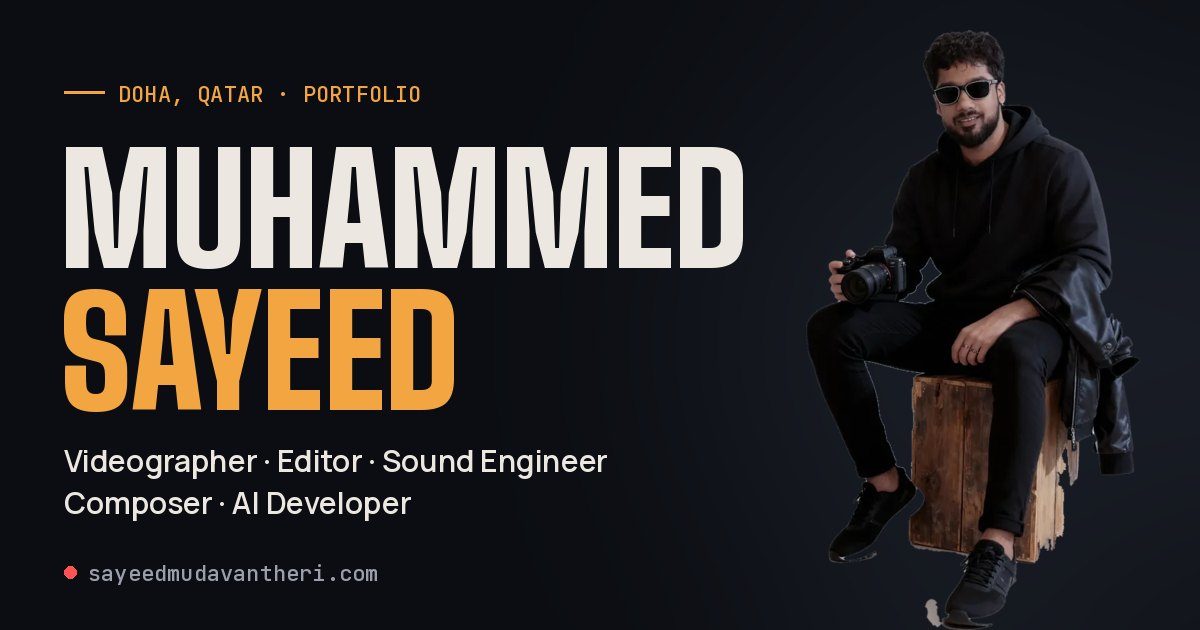
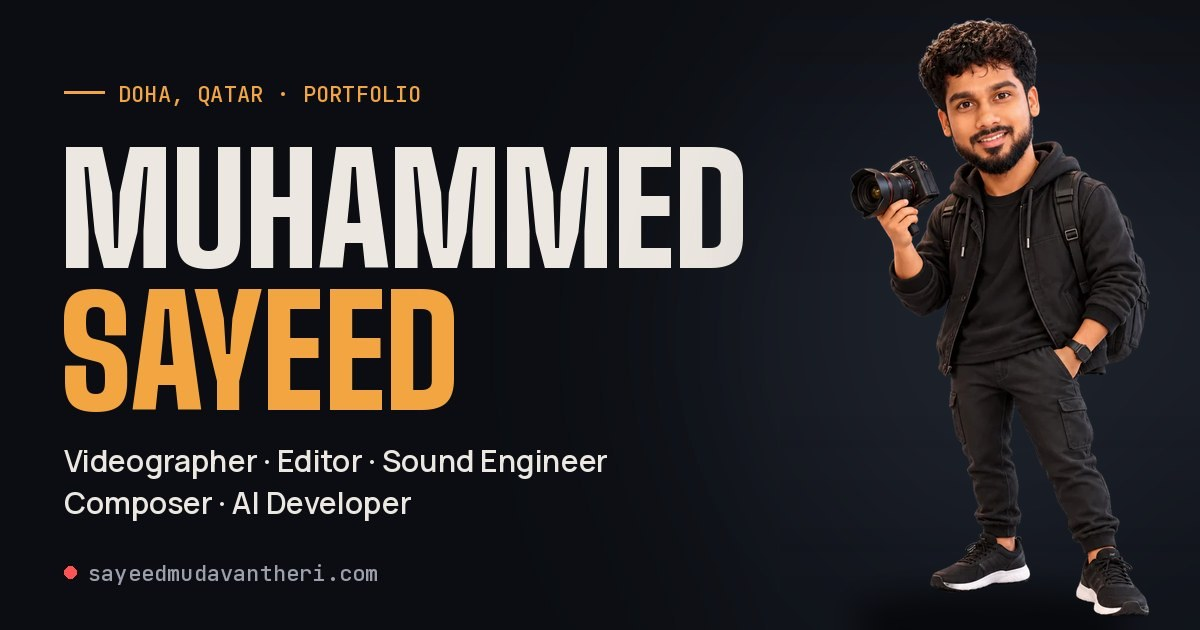
Mascot replaces photos; realistic walking

Changed region(s): [[0.6475, 0.0302, 0.9558, 1.0]]

diff --git a/index.html b/index.html
@@ -463,10 +463,10 @@ footer .in{max-width:1280px;margin:0 auto;padding:22px clamp(16px,4vw,48px);disp
         <a class="btn" href="#contact">Start a project <svg viewBox="0 0 16 16" aria-hidden="true"><path d="M3 8h10M9 4l4 4-4 4"/></svg></a>
         <button class="btn ghost" type="button" data-showcase>View my work</button>
       </div>
-      <p class="hint" id="hint">Move your cursor and mini me runs to it &middot; Click me for a flip &middot; Scroll to change scene</p>
+      <p class="hint" id="hint">Move your cursor and mini me walks to it &middot; Click me for a photo &middot; Scroll to change scene</p>
       <img class="fallback" src="mascot-still.webp" alt="Mini Sayeed, a 3D character of Muhammed Sayeed holding a camera">
     </div></div>
-    <div class="hm" id="heroMascot"><button class="m-hit" id="hmHit" type="button" aria-label="Mini Sayeed: tap for a flip"></button><div class="m-say" id="hmSay" aria-live="polite"></div></div>
+    <div class="hm" id="heroMascot"><button class="m-hit" id="hmHit" type="button" aria-label="Mini Sayeed: tap for a photo"></button><div class="m-say" id="hmSay" aria-live="polite"></div></div>
   </section>
 
   <section class="scene" id="about" data-scene="1">
@@ -580,7 +580,7 @@ footer .in{max-width:1280px;margin:0 auto;padding:22px clamp(16px,4vw,48px);disp
       <div class="tag">Scene 05 &middot; The musician</div>
       <h2>I hear the edit</h2>
       <div class="photos">
-        <img class="p1" src="piano-portrait.jpg" alt="Sayeed smiling while seated at a grand piano">
+        <img class="p1" src="about-mascot.jpg" alt="Mini Sayeed, the 3D character of Muhammed Sayeed">
         <img class="p2" src="piano-keys.jpg" alt="Sayeed's hands playing a grand piano">
       </div>
       <div class="facts" style="margin-top:0">
@@ -686,7 +686,7 @@ const seen=new Set(); const so=new IntersectionObserver(es=>es.forEach(en=>{ if(
 document.querySelectorAll('[data-scene]').forEach(s=>so.observe(s));
 const gameSeen=new Set(); window.__trackGame=k=>{ if(!gameSeen.has(k)){gameSeen.add(k);track('game/'+k,'Game played: '+k)} };
 const fine=matchMedia('(pointer:fine)').matches;
-if(!fine) document.getElementById('hint').innerHTML='Tap anywhere below and mini me runs there &middot; Tap me for a flip';
+if(!fine) document.getElementById('hint').innerHTML='Tap anywhere below and mini me walks there &middot; Tap me for a photo';
 
 /* timecode */
 const tc=document.getElementById('tc'),t0=performance.now(),pad=n=>String(n).padStart(2,'0');
@@ -1307,22 +1307,23 @@ Promise.all([loadPts,fontReady,null,null]).then(([txt,_f,pTex,dTex])=>{
 <script>
 /* Mini Sayeed: 3D character built from Sayeed's own character sheet (faces untouched).
    Atlas cells: 0 front, 1 three-quarter left, 2 side left, 3 back, 4 three-quarter right, 5 camera pose.
+   Walking uses a cut-out rig of the side view (body + two jointed legs + swinging arm), so he walks like a person.
    One engine, two stages: the big one in the hero and the little buddy in the corner. */
 (()=>{
   if(!window.THREE) return;
   const RM=matchMedia('(prefers-reduced-motion: reduce)').matches;
-  const FINE=matchMedia('(pointer:fine)').matches;
   const FW=360/560;
   const tl=new THREE.TextureLoader(), lt=u=>new Promise(r=>tl.load(u,t=>{t.minFilter=THREE.LinearFilter;t.generateMipmaps=false;r(t)},undefined,()=>r(null)));
-  const TEX=Promise.all([lt('mascot.webp'),lt('mascotdepth.png')]);
+  const TEX=Promise.all([lt('mascot.webp'),lt('mascotdepth.png'),lt('rig.webp'),lt('rigarm.png')]);
   const KEYS=[[0,0,0],[45,1,0],[90,2,0],[150,3,0],[210,3,0],[270,2,1],[315,4,0],[360,0,0]];
   const ease=x=>x<.5?4*x*x*x:1-Math.pow(-2*x+2,3)/2, clamp=(v,a,b)=>Math.max(a,Math.min(b,v));
+  /* cell px (360x560 side view) -> plane units (figure height = 1) */
+  const PX=cx=>(cx/360-.5)*FW, PY=cy=>.5-cy/560;
+  const HIP=[180,342], KNEE=[188,452], SHOULDER=[165,175];
   let px=-1, py=-1, pmove=0;
   addEventListener('pointermove',e=>{ if(e.pointerType!=='mouse') return; px=e.clientX; py=e.clientY; pmove=performance.now()/1000; },{passive:true});
   const glow=(()=>{const c=document.createElement('canvas');c.width=c.height=128;const x=c.getContext('2d');const g=x.createRadialGradient(64,64,0,64,64,64);
     g.addColorStop(0,'rgba(255,255,255,1)');g.addColorStop(.18,'rgba(255,250,235,.9)');g.addColorStop(.45,'rgba(255,220,170,.25)');g.addColorStop(1,'rgba(255,220,170,0)');x.fillStyle=g;x.fillRect(0,0,128,128);return c;})();
-  const puff=(()=>{const c=document.createElement('canvas');c.width=c.height=64;const x=c.getContext('2d');const g=x.createRadialGradient(32,32,0,32,32,32);
-    g.addColorStop(0,'rgba(200,190,175,.55)');g.addColorStop(1,'rgba(200,190,175,0)');x.fillStyle=g;x.fillRect(0,0,64,64);return c;})();
 
   function Mascot(o){
     const host=o.host, hit=o.hit, say=o.say;
@@ -1334,14 +1335,15 @@ Promise.all([loadPts,fontReady,null,null]).then(([txt,_f,pTex,dTex])=>{
     const root=new THREE.Group(); scene.add(root);
     const shadow=new THREE.Mesh(new THREE.CircleGeometry(1,40),new THREE.MeshBasicMaterial({color:0,transparent:true,opacity:.4,depthWrite:false})); scene.add(shadow);
     const cell=k=>new THREE.Vector3(k%3,Math.floor(k/3),0);
-    const U={uMap:{value:null},uDep:{value:null},uAmt:{value:.12},uA:{value:0},uFlash:{value:0},uSq:{value:new THREE.Vector2(1,1)},uSway:{value:0},
+    /* ---- turntable sprite (standing, turning, posing) ---- */
+    const U={uMap:{value:null},uDep:{value:null},uAmt:{value:.12},uA:{value:0},uFlash:{value:0},uSway:{value:0},
       uCA:{value:cell(0)},uCB:{value:cell(1)},uMix:{value:0},uCP:{value:cell(5)},uPose:{value:0},uL:{value:new THREE.Vector3(.3,.4,1)}};
     const common=`uniform sampler2D uMap,uDep;uniform vec3 uCA,uCB,uCP;uniform float uMix,uPose;
       vec2 at(vec3 c,vec2 uv){ if(c.z>.5) uv.x=1.-uv.x; return vec2((c.x+uv.x)/3.,(uv.y+1.-c.y)/2.); }
       float dep(vec2 uv){ return mix(mix(texture2D(uDep,at(uCA,uv)).r,texture2D(uDep,at(uCB,uv)).r,uMix),texture2D(uDep,at(uCP,uv)).r,uPose); }`;
-    const mat=new THREE.ShaderMaterial({uniforms:U,transparent:true,depthWrite:false,
-      vertexShader:common+`uniform float uAmt,uSway;uniform vec2 uSq;varying vec2 vUv;
-        void main(){vUv=uv;vec3 p=position;p.z+=dep(uv)*uAmt;p.x+=uSway*uv.y*uv.y*.07;p.x*=uSq.x;p.y=(p.y+.5)*uSq.y-.5;
+    const mat=new THREE.ShaderMaterial({uniforms:U,transparent:true,depthWrite:false,depthTest:false,
+      vertexShader:common+`uniform float uAmt,uSway;varying vec2 vUv;
+        void main(){vUv=uv;vec3 p=position;p.z+=dep(uv)*uAmt;p.x+=uSway*uv.y*uv.y*.05;
           gl_Position=projectionMatrix*modelViewMatrix*vec4(p,1.);}`,
       fragmentShader:common+`uniform vec3 uL;uniform float uA,uFlash;varying vec2 vUv;
         void main(){vec4 c=mix(mix(texture2D(uMap,at(uCA,vUv)),texture2D(uMap,at(uCB,vUv)),uMix),texture2D(uMap,at(uCP,vUv)),uPose);
@@ -1351,47 +1353,63 @@ Promise.all([loadPts,fontReady,null,null]).then(([txt,_f,pTex,dTex])=>{
           vec3 col=c.rgb*(.86+.2*l);float r=pow(1.-max(n.z,0.),2.);col+=vec3(.95,.62,.25)*r*.4*c.a;
           col+=vec3(1.)*uFlash*uPose*.2*smoothstep(.55,0.,distance(vUv*vec2(1.,1.55),vec2(.0695,.697*1.55)));
           gl_FragColor=vec4(col,c.a*uA);}`});
-    root.add(new THREE.Mesh(new THREE.PlaneGeometry(FW,1,48,76),mat));
-    const flare=new THREE.Sprite(new THREE.SpriteMaterial({map:new THREE.CanvasTexture(glow),transparent:true,depthWrite:false,blending:THREE.AdditiveBlending,opacity:0}));
-    flare.scale.set(.4,.4,1); flare.position.set((.0695-.5)*FW,.197,.2); root.add(flare);
-    const ptex=new THREE.CanvasTexture(puff), puffs=[];
-    for(let k=0;k<14;k++){ const sp=new THREE.Sprite(new THREE.SpriteMaterial({map:ptex,transparent:true,depthWrite:false,opacity:0})); sp.userData.life=0; scene.add(sp); puffs.push(sp); }
-    function dust(x,y,dir,big){ const sp=puffs.find(p=>p.userData.life<=0)||puffs[0]; sp.userData={life:1,x,y,vx:-dir*(30+Math.random()*40)*(big?1.6:1),vy:10+Math.random()*25,s:FH*(big?.1:.06)}; }
+    const sprite=new THREE.Mesh(new THREE.PlaneGeometry(FW,1,48,76),mat); root.add(sprite);
+    const flare=new THREE.Sprite(new THREE.SpriteMaterial({map:new THREE.CanvasTexture(glow),transparent:true,depthWrite:false,depthTest:false,blending:THREE.AdditiveBlending,opacity:0}));
+    flare.scale.set(.4,.4,1); flare.position.set((.0695-.5)*FW,.197,.2); flare.renderOrder=9; root.add(flare);
+
+    /* ---- walking rig (side view, faces left; mirrored to walk right) ---- */
+    const RU={uRig:{value:null},uArmW:{value:null},uArm:{value:0},uA:U.uA};
+    const rigFrag=`uniform sampler2D uRig;uniform float uA,uTint;varying vec2 vA;void main(){vec4 c=texture2D(uRig,vA);if(c.a<.02)discard;gl_FragColor=vec4(c.rgb*.97*uTint,c.a*uA);}`;
+    const rig=new THREE.Group(); root.add(rig); rig.visible=false;
+    function part(rect,k,pivot,tint,order,arm){ const [x0,y0,x1,y1]=rect, sx=arm?30:2, sy=arm?46:2;
+      const g=new THREE.PlaneGeometry(PX(x1)-PX(x0),PY(y0)-PY(y1),sx,sy), uv=g.attributes.uv, A=new Float32Array(uv.count*2);
+      for(let i=0;i<uv.count;i++){ const u=uv.getX(i), v=uv.getY(i), cx=x0+u*(x1-x0), cy=y1-v*(y1-y0); A[i*2]=(k+cx/360)/2; A[i*2+1]=1-cy/560; }
+      g.setAttribute('aUv',new THREE.BufferAttribute(A,2));
+      const m=new THREE.ShaderMaterial({uniforms:{...RU,uTint:{value:tint}},transparent:true,depthWrite:false,depthTest:false,
+        vertexShader:arm?`uniform sampler2D uArmW;uniform float uArm;attribute vec2 aUv;varying vec2 vA;
+            void main(){vA=aUv;vec3 p=position;float w=texture2D(uArmW,vec2(aUv.x*2.,aUv.y)).r;vec2 s=vec2(${PX(SHOULDER[0]).toFixed(4)},${PY(SHOULDER[1]).toFixed(4)});
+              vec2 q=p.xy-s;float a=uArm*w,c=cos(a),n=sin(a);p.xy=s+vec2(c*q.x-n*q.y,n*q.x+c*q.y);gl_Position=projectionMatrix*modelViewMatrix*vec4(p,1.);}`
+          :`attribute vec2 aUv;varying vec2 vA;void main(){vA=aUv;gl_Position=projectionMatrix*modelViewMatrix*vec4(position,1.);}`,
+        fragmentShader:rigFrag});
+      const mesh=new THREE.Mesh(g,m); mesh.renderOrder=order;
+      const grp=new THREE.Group(); grp.position.set(PX(pivot[0]),PY(pivot[1]),0);
+      mesh.position.set((PX(x0)+PX(x1))/2-PX(pivot[0]),(PY(y0)+PY(y1))/2-PY(pivot[1]),0); grp.add(mesh); return grp; }
+    function leg(tint,order,dx){ const thigh=part([118,320,242,462],1,HIP,tint,order), shin=part([88,446,242,560],1,KNEE,tint,order+1);
+      shin.position.set(PX(KNEE[0])-PX(HIP[0]),PY(KNEE[1])-PY(HIP[1]),0); thigh.add(shin); thigh.position.x+=dx; rig.add(thigh); return {thigh,shin}; }
+    const farLeg=leg(.58,1,.012), nearLeg=leg(1,3,0);
+    const body=part([0,0,360,560],0,[180,280],1,5,true); body.position.set(PX(180),PY(280),0); rig.add(body);
 
     function setView(a){ a=((a%360)+360)%360; let i=0; while(i<KEYS.length-2&&a>=KEYS[i+1][0]) i++;
       const A=KEYS[i],B=KEYS[i+1], f=(a-A[0])/(B[0]-A[0]);
       U.uCA.value.set(A[1]%3,Math.floor(A[1]/3),A[2]); U.uCB.value.set(B[1]%3,Math.floor(B[1]/3),B[2]);
-      U.uMix.value=clamp((f-.35)/.3,0,1); const near=f<.5?A[0]:B[0]; return ((a-near+540)%360-180)*Math.PI/180; }
+      U.uMix.value=clamp((f-.42)/.16,0,1); const near=f<.5?A[0]:B[0]; return ((a-near+540)%360-180)*Math.PI/180; }
 
     /* layout */
     let cw=0,ch=0,FH=300,ground=10,minX=0,maxX=0,x=-1,tx=-1;
     function fit(){ if(o.place) o.place(); const r=host.getBoundingClientRect(); if(Math.abs(r.width-cw)<1&&Math.abs(r.height-ch)<1) return;
       cw=Math.max(1,r.width); ch=Math.max(1,r.height); renderer.setSize(cw,ch,false);
       cam.left=0;cam.right=cw;cam.top=ch;cam.bottom=0;cam.updateProjectionMatrix();
-      FH=o.size(cw,ch); ground=o.ground?o.ground(ch):ch*.05; const half=FH*FW*.5; minX=half; maxX=Math.max(half,cw-half);
+      FH=o.size(cw,ch); ground=o.ground?o.ground(ch):ch*.05; const half=FH*FW*.45; minX=half; maxX=Math.max(half,cw-half);
       if(x<0){ x=o.startX?o.startX(minX,maxX):maxX*.6; tx=x; } x=clamp(x,minX,maxX); tx=clamp(tx,minX,maxX); }
 
     /* speech */
     let sayT=0; function talk(txt,ms=3200){ if(!say) return; say.textContent=txt; say.classList.add('on'); clearTimeout(sayT); sayT=setTimeout(()=>say.classList.remove('on'),ms); }
 
-    /* activities */
-    let act=null, nextAct=performance.now()/1000+(o.firstAct||3), lastPos=0, landT=-9, phase=0, ang=20, rx=0, pose=0, ready=false, active=true;
-    const POOL=o.pool||['wander','jump','flip','dance','spin','snap','wander','hop'];
-    function start(n,extra){ const t=performance.now()/1000; act={n,t0:t,dir:Math.random()<.5?-1:1,...(extra||{})};
-      const D={jump:.85,flip:1.05,spin:1,dance:2.8,snap:2.1,hop:.9,cart:1.15}; act.dur=D[n]||0;
-      if(n==='wander'){ let nx=minX+Math.random()*(maxX-minX); if(Math.abs(nx-x)<FH*.6) nx=x>(minX+maxX)/2?minX+Math.random()*(maxX-minX)*.3:maxX-Math.random()*(maxX-minX)*.3; tx=nx; act=null; }
-      if(n==='cart'){ act.dir=x>(minX+maxX)/2?-1:1; tx=clamp(x+act.dir*FH*1.1,minX,maxX); act.dir=Math.sign(tx-x)||1; }
-      if(n==='jump'||n==='flip'||n==='cart') setTimeout(()=>dust(x,ground,0,true),n==='cart'?80:120);
-    }
-    function trick(){ start(Math.random()<.5?'flip':'spin'); }
-
-    const api={ talk, trick, start, renderer,
+    /* everyday activities: walk somewhere, glance, look behind, take a photo */
+    let act=null, nextAct=performance.now()/1000+(o.firstAct||3), ang=20, rx=0, pose=0, ready=false, active=true;
+    let walking=false, walkW=0, phase=0, facingRight=false;
+    const POOL=o.pool||['wander','wander','glance','snap','lookback','wander'];
+    const DUR={snap:2.2,glance:1.8,lookback:2.2};
+    function start(n){ const t=performance.now()/1000;
+      if(n==='wander'){ let nx=minX+Math.random()*(maxX-minX); if(Math.abs(nx-x)<FH*.5) nx=x>(minX+maxX)/2?minX+Math.random()*(maxX-minX)*.35:maxX-Math.random()*(maxX-minX)*.35; tx=nx; act=null; return; }
+      tx=x; act={n,t0:t,dur:DUR[n]||1.5,side:Math.random()<.5?-1:1}; }
+    const api={ talk, start, renderer,
       set active(v){ active=v; if(v) kick(); }, get active(){return active},
-      get ready(){return ready}, runTo(clientX){ const r=host.getBoundingClientRect(); tx=clamp(clientX-r.left,minX,maxX); act=null; nextAct=performance.now()/1000+4; },
+      get ready(){return ready}, runTo(clientX){ const r=host.getBoundingClientRect(); tx=clamp(clientX-r.left,minX,maxX); act=null; nextAct=performance.now()/1000+5; },
       get x(){return x} };
 
-    TEX.then(([m,d])=>{ if(!m||!d) return; U.uMap.value=m; U.uDep.value=d; ready=true; if(o.onReady) o.onReady(api); });
-    if(hit){ hit.addEventListener('click',e=>{ e.stopPropagation(); if(o.onTap) o.onTap(api); else trick(); });
+    TEX.then(([m,d,rg,aw])=>{ if(!m||!d||!rg||!aw) return; U.uMap.value=m; U.uDep.value=d; RU.uRig.value=rg; RU.uArmW.value=aw; ready=true; if(o.onReady) o.onReady(api); });
+    if(hit){ hit.addEventListener('click',e=>{ e.stopPropagation(); if(o.onTap) o.onTap(api); else start('snap'); });
       hit.addEventListener('pointerenter',()=>{ if(o.onHover) o.onHover(api); }); }
     addEventListener('resize',()=>{cw=0;});
 
@@ -1399,61 +1417,60 @@ Promise.all([loadPts,fontReady,null,null]).then(([txt,_f,pTex,dTex])=>{
     function kick(){ if(!running){ running=true; last=performance.now()/1000; requestAnimationFrame(loop); } }
     function loop(){ if(!active||document.hidden){ running=false; return; } requestAnimationFrame(loop); fit();
       const t=performance.now()/1000, dt=clamp(t-last,0,.05); last=t;
-      if(o.visible&&!o.visible()){ return; }
+      if(o.visible&&!o.visible()) return;
       if(!ready) return;
       U.uA.value=Math.min(1,U.uA.value+dt*3);
       const r=host.getBoundingClientRect();
-      /* chase the cursor (hero only) */
-      if(o.chase&&!RM&&px>=0&&t-pmove<2.5){ const h=o.chase(); if(h&&py>=h.top&&py<=h.bottom&&!(act&&act.dur)){ tx=clamp(px-r.left,minX,maxX); nextAct=t+3; } }
-      let y=0, rz=0, sx=1, sy=1+(RM?0:Math.sin(t*2.6)*.008), spin=0, angAbs=null, inPose=false, flash=0;
-      /* run */
-      const dx=tx-x, moving=!RM&&!(act&&act.dur&&act.n!=='cart')&&Math.abs(dx)>3;
+      /* follow the cursor (hero only) */
+      if(o.chase&&!RM&&px>=0&&t-pmove<2.5&&!act){ const h=o.chase(); if(h&&py>=h.top&&py<=h.bottom){ tx=clamp(px-r.left,minX,maxX); nextAct=t+3; } }
       if(RM){ x=tx; }
-      if(moving){ const speed=Math.min(FH*1.5,Math.abs(dx)*5+FH*.25), dir=Math.sign(dx); x+=dir*Math.min(Math.abs(dx),speed*dt);
-        const prev=phase; phase+=dt*speed/(FH*.11); if(Math.floor(prev/Math.PI)!==Math.floor(phase/Math.PI)) dust(x-dir*FH*.12,ground,dir,false);
-        const run=Math.min(1,speed/(FH*.6)); y+=Math.abs(Math.sin(phase))*FH*.045*run; rz+=-dir*.09*run; sy*=1-.035*Math.cos(phase*2)*run;
-        angAbs=dir<0?90:270; lastPos=t; }
-      else if(lastPos&&t-lastPos<.05){ landT=t; lastPos=0; nextAct=Math.max(nextAct,t+1.2); }
-      const lt0=t-landT; if(lt0>=0&&lt0<.18){ const u=Math.sin(lt0/.18*Math.PI); sy*=1-.07*u; sx*=1+.05*u; }
-      /* tricks */
-      if(act&&act.dur){ const u=(t-act.t0)/act.dur;
-        if(u>=1){ if(act.n==='flip'||act.n==='jump'||act.n==='spin'||act.n==='cart'){ landT=t; dust(x,ground,0,true); } act=null; nextAct=t+(o.gap?o.gap():2.5+Math.random()*2.5); }
-        else{ const n=act.n;
-          if(n==='jump'||n==='flip'||n==='spin'||n==='cart'){ const sq=.13, air=n==='jump'?.74:.75;
-            if(u<sq){ const k=u/sq; sy*=1-.13*k; sx*=1+.09*k; }
-            else if(u<sq+air){ const k=(u-sq)/air, h=(n==='flip'?.55:n==='cart'?.32:n==='spin'?.3:.45)*(o.air||1); y+=Math.sin(k*Math.PI)*FH*h; sy*=1+.07*Math.sin(k*Math.PI); sx*=1-.05*Math.sin(k*Math.PI);
-              if(n==='flip') rz+=ease(k)*Math.PI*2*act.dir;
-              if(n==='cart'){ rz+=-ease(k)*Math.PI*2*act.dir; x+=act.dir*0; }
-              if(n==='spin') spin=ease(k)*360; }
-            else { const k=(u-sq-air)/(1-sq-air); sy*=1-.1*Math.sin(k*Math.PI); sx*=1+.07*Math.sin(k*Math.PI); } }
-          if(n==='hop'){ const k=(u*2)%1; y+=Math.sin(k*Math.PI)*FH*.12; sy*=1+.04*Math.sin(k*Math.PI); }
-          if(n==='dance'){ const b=u*act.dur*2.4, k=b%1, side=Math.floor(b)%2?1:-1; y+=Math.abs(Math.sin(k*Math.PI))*FH*.07; rz+=Math.sin(b*Math.PI)*.1; angAbs=side*38; sy*=1-.05*Math.cos(k*Math.PI*2); if(Math.floor(b)===4) spin=ease(k)*360; }
-          if(n==='snap'){ inPose=true; const st=u*act.dur; if(st>.75&&st<1.2) flash=st<.8?(st-.75)/.05:Math.pow(1-(st-.8)/.4,2); }
-        } }
-      /* cartwheel moves him sideways */
-      if(act&&act.n==='cart'){ const u=(t-act.t0)/act.dur; if(u>.13&&u<.88) x+=act.dir*FH*1.1*dt/(act.dur*.75); tx=x; }
+      /* walking: turn to face the way, then step; feet are planted (distance drives the stride) */
+      const dx=tx-x, far=Math.abs(dx), want=!RM&&!act&&far>FH*.035;
+      if(want) facingRight=dx>0;
+      const sideAng=facingRight?270:90;
+      let angAbs=null, inPose=false, flash=0;
+      if(want||walkW>.02) angAbs=sideAng;
+      const sideNear=Math.abs(((ang-sideAng)%360+540)%360-180)<10;
+      walking=want&&sideNear;
+      walkW+=((walking?1:0)-walkW)*Math.min(1,dt*(walking?7:9));
+      if(walking){ const speed=FH*(far>FH*2?.62:.48)*Math.min(1,.35+walkW), step=Math.min(far,speed*dt*walkW); x+=Math.sign(dx)*step; phase+=step/(FH*.27)*Math.PI; }
+      else if(walkW<.05) phase=Math.round(phase/Math.PI)*Math.PI;   /* settle with feet together */
+      const rigOn=sideNear&&(walking||walkW>.02);
+      /* activities */
+      if(act){ const u=(t-act.t0)/act.dur;
+        if(u>=1){ act=null; nextAct=t+(o.gap?o.gap():3+Math.random()*3); }
+        else if(act.n==='snap'){ inPose=true; const st=u*act.dur; if(st>.8&&st<1.25) flash=st<.85?(st-.8)/.05:Math.pow(1-(st-.85)/.4,2); }
+        else if(act.n==='glance') angAbs=act.side*42;
+        else if(act.n==='lookback') angAbs=u<.15||u>.85?act.side*45:(act.side>0?150:210); }
       x=clamp(x,minX,maxX);
-      /* idle tricks */
-      if(!RM&&!act&&!moving&&t>nextAct&&o.auto!==false){ const n=POOL[Math.floor(Math.random()*POOL.length)]; start(n); if(n==='wander') nextAct=t+2+Math.random()*2; }
-      /* facing */
+      if(!RM&&!act&&!want&&walkW<.05&&t>nextAct&&o.auto!==false){ start(POOL[Math.floor(Math.random()*POOL.length)]); nextAct=t+2.5+Math.random()*2; }
+      /* facing the cursor when standing */
       if(angAbs===null){ const fx=r.left+x; const tgx=px>=0?clamp((px-fx)/(innerWidth*.35),-1,1):-.4; angAbs=RM?20:-tgx*50; }
       let target=angAbs; target+=360*Math.round((ang-target)/360);
-      ang+=(target-ang)*Math.min(1,dt*(moving?14:7));
+      ang+=(target-ang)*Math.min(1,dt*(want?6:4.5));
       const ty=py>=0?clamp((py-(r.top+ch-ground-FH*.85))/(innerHeight*.5),-1,1):0; rx+=(ty-rx)*Math.min(1,dt*5);
-      const resid=setView(ang+spin);
-      pose+=((inPose?1:0)-pose)*Math.min(1,dt*10); U.uPose.value=pose;
-      root.rotation.set(rx*.08,pose>.5?0:-resid*.55,rz);
-      U.uSway.value=RM?0:Math.sin(t*1.3)*.1*(moving?0:1);
-      U.uSq.value.set(sx,sy); U.uL.value.set(.4,.5-rx*.5,1);
+      const resid=setView(ang);
+      pose+=((inPose?1:0)-pose)*Math.min(1,dt*9); U.uPose.value=pose;
+      /* rig pose */
+      sprite.visible=!rigOn; rig.visible=rigOn;
+      let bob=0;
+      if(rigOn){ const w=walkW, p=phase;
+        rig.scale.x=facingRight?-1:1;
+        nearLeg.thigh.rotation.z=-.36*Math.sin(p)*w; nearLeg.shin.rotation.z=(.06+.82*Math.pow(Math.max(0,Math.cos(p)),1.6))*w;
+        farLeg.thigh.rotation.z=-.36*Math.sin(p+Math.PI)*w; farLeg.shin.rotation.z=(.06+.82*Math.pow(Math.max(0,Math.cos(p+Math.PI)),1.6))*w;
+        RU.uArm.value=.2*Math.sin(p)*w;
+        bob=(.011*Math.cos(2*p)-.006)*w; rig.rotation.z=.025*w; rig.position.y=bob; }
+      root.rotation.set(rigOn?0:rx*.08,rigOn||pose>.5?0:-resid*.55,0);
+      U.uSway.value=RM||rigOn?0:Math.sin(t*1.1)*.08;
+      U.uL.value.set(.4,.5-rx*.5,1);
       U.uFlash.value=flash; flare.material.opacity=flash*pose;
-      root.scale.setScalar(FH); root.position.set(x,ground+FH*.5+y,0);
-      /* rotate around the body centre for flips: compensate y */
-      shadow.position.set(x,ground+2,-5); const lift=y/FH; shadow.scale.set(FH*FW*.42*(1-lift*.5),FH*.035*(1-lift*.5),1); shadow.material.opacity=.38*(1-lift*.8);
-      for(const sp of puffs){ const d=sp.userData; if(d.life>0){ d.life-=dt*1.6; d.x+=d.vx*dt; d.y+=d.vy*dt; const k=1-d.life; sp.position.set(d.x,d.y+FH*.02,-1); sp.scale.setScalar(d.s*(1+k*1.8)); sp.material.opacity=Math.max(0,d.life)*.9; } else sp.material.opacity=0; }
+      const breathe=RM||rigOn?1:1+Math.sin(t*2.4)*.006;
+      root.scale.set(FH,FH*breathe,FH); root.position.set(x,ground+FH*.5*breathe,0);
+      shadow.position.set(x,ground+2,-5); shadow.scale.set(FH*FW*.4,FH*.034,1);
       /* hit box + bubble follow him */
-      if(hit){ const w=FH*FW*.62, b=`${Math.round(x-w/2)}|${Math.round(ground+y)}|${Math.round(w)}|${Math.round(FH*.97)}`;
+      if(hit){ const w=FH*FW*.62, b=`${Math.round(x-w/2)}|${Math.round(ground)}|${Math.round(w)}|${Math.round(FH*.97)}`;
         if(b!==hitBox){ hitBox=b; const q=b.split('|'); hit.style.left=q[0]+'px'; hit.style.bottom=q[1]+'px'; hit.style.width=q[2]+'px'; hit.style.height=q[3]+'px'; } }
-      if(say&&say.classList.contains('on')){ say.style.left=Math.round(Math.max(x+FH*.1,Math.min(cw,say.offsetWidth+4)))+'px'; say.style.bottom=Math.round(ground+FH*.98+y)+'px'; }
+      if(say&&say.classList.contains('on')){ say.style.left=Math.round(Math.max(x+FH*.1,Math.min(cw,say.offsetWidth+4)))+'px'; say.style.bottom=Math.round(ground+FH*.98)+'px'; }
       renderer.render(scene,cam);
     }
     kick();
@@ -1470,19 +1487,19 @@ Promise.all([loadPts,fontReady,null,null]).then(([txt,_f,pTex,dTex])=>{
     hero=Mascot({host:hm,hit:document.getElementById('hmHit'),say:document.getElementById('hmSay'),
       place(){ if(narrowNow()){ const hr=heroEl.getBoundingClientRect(), hb=hint.getBoundingClientRect(); const top=hb.bottom-hr.top+8; hm.style.top=top+'px'; hm.style.height=Math.max(200,Math.min(460,innerHeight-top-14))+'px'; }
         else { hm.style.top=''; hm.style.height=''; } },
-      size:(w,h)=>narrowNow()?Math.min(h*.8,400):Math.min(h*.64,580), air:.7,
+      size:(w,h)=>narrowNow()?Math.min(h*.84,420):Math.min(h*.7,620),
       ground:h=>narrowNow()?h*.04:h*.07,
       startX:(a,b)=>narrowNow()?(a+b)/2:a+(b-a)*.55,
       chase:()=>heroEl.getBoundingClientRect(),
       visible:()=>heroIn,
-      firstAct:4.5,
-      onReady:api=>setTimeout(()=>{ api.talk('Hi! I’m Sayeed 👋',3600); api.start('hop'); },700),
-      onTap:api=>{ const L=['Ta-da! ✨','Again? Okay!','Wheee!','Did you get that on camera?']; api.start(Math.random()<.6?'flip':'cart'); setTimeout(()=>api.talk(L[Math.floor(Math.random()*L.length)],2200),700); try{ if(typeof track==='function') track('mascot-flip'); }catch(e){} },
-      onHover:api=>{ if(Math.random()<.35) api.talk('Catch me if you can!',1800); }
+      firstAct:5,
+      onReady:api=>setTimeout(()=>api.talk('Hi! I’m Sayeed 👋',3600),700),
+      onTap:api=>{ api.start('snap'); setTimeout(()=>api.talk('Say cheese! 📸',2000),300); try{ if(typeof track==='function') track('mascot-photo'); }catch(e){} },
+      onHover:api=>{ if(Math.random()<.35) api.talk('Click me for a photo 📸',1800); }
     });
     if(!hero) hm.style.display='none';
     else{
-      /* touch: tap anywhere in the hero (not on a link/button) and he runs there */
+      /* touch: tap anywhere in the hero (not on a link/button) and he walks there */
       heroEl.addEventListener('pointerdown',e=>{ if(e.pointerType==='mouse'||e.target.closest('a,button,input')) return; hero.runTo(e.clientX); });
       if('IntersectionObserver' in window) new IntersectionObserver(es=>es.forEach(e=>{ heroIn=e.isIntersecting; hero.active=heroIn; }),{threshold:0}).observe(heroEl);
     }
@@ -1497,19 +1514,19 @@ Promise.all([loadPts,fontReady,null,null]).then(([txt,_f,pTex,dTex])=>{
       if(heroEl) qo.observe(heroEl); if(foot) qo.observe(foot); } else heroMost=false;
     const shown=()=>bot.hidden&&!footIn&&!(heroMost&&hero);
     const buddy=Mascot({host:bhost,hit:document.getElementById('buddyHit'),say:document.getElementById('buddySay'),
-      size:(w,h)=>h*.62, ground:h=>h*.06, startX:(a,b)=>b, air:.6,
-      pool:['wander','jump','flip','dance','snap','spin','hop','cart','wander'], gap:()=>4+Math.random()*4, firstAct:3,
+      size:(w,h)=>h*.66, ground:h=>h*.05, startX:(a,b)=>b,
+      pool:['wander','glance','snap','wander','lookback'], gap:()=>4+Math.random()*4, firstAct:3,
       visible:()=>{ const s=shown(); bhost.classList.toggle('off',!s||!buddy||!buddy.ready); if(!s) bhost.querySelector('.m-say').classList.remove('on');
-        if(s&&buddy&&buddy.ready&&!greeted){ greeted=true; const hr=new Date().getHours(); buddy.talk((hr<12?'Good morning!':hr<18?'Hi there!':'Good evening!')+' Tap me to chat 💬',4000); buddy.start('hop'); }
+        if(s&&buddy&&buddy.ready&&!greeted){ greeted=true; const hr=new Date().getHours(); buddy.talk((hr<12?'Good morning!':hr<18?'Hi there!':'Good evening!')+' Tap me to chat 💬',4000); }
         return s; },
-      onTap:api=>{ api.start('flip'); try{ if(typeof track==='function') track('buddy-click'); }catch(e){} setTimeout(()=>{ if(bot.hidden) chatBtn.click(); },RM?0:1000); },
+      onTap:api=>{ api.start('glance'); try{ if(typeof track==='function') track('buddy-click'); }catch(e){} setTimeout(()=>{ if(bot.hidden) chatBtn.click(); },RM?0:500); },
       onHover:api=>{ api.talk('Tap me to chat 💬',2000); }
     });
     if(buddy){
       const LINES={about:'That’s my story. Short version: sound + image.',work:'Newsroom, radio, race days… busy years!',gallery:'Hover a photo, it comes alive in colour.',services:'Need a video, a mix or an AI tool? Tap me.',music:'Fancy the camera challenge? Beat my score!',contact:'Say hi on WhatsApp, I reply fast.'};
-      const DO={gallery:'snap',music:'snap',services:'jump',contact:'dance',about:'hop',work:'cart'};
+      const DO={gallery:'snap',music:'snap',services:'wander',contact:'glance',about:'glance',work:'wander'};
       const seen=new Set();
-      if('IntersectionObserver' in window){ const io=new IntersectionObserver(es=>es.forEach(e=>{ if(!e.isIntersecting||!greeted) return; const id=e.target.id; if(seen.has(id)) return; seen.add(id); buddy.talk(LINES[id]); buddy.start(DO[id]||'hop'); }),{threshold:.45});
+      if('IntersectionObserver' in window){ const io=new IntersectionObserver(es=>es.forEach(e=>{ if(!e.isIntersecting||!greeted) return; const id=e.target.id; if(seen.has(id)) return; seen.add(id); buddy.talk(LINES[id]); buddy.start(DO[id]||'glance'); }),{threshold:.45});
         Object.keys(LINES).forEach(id=>{const el=document.getElementById(id); if(el) io.observe(el);}); }
     } else bhost.style.display='none';
   }
